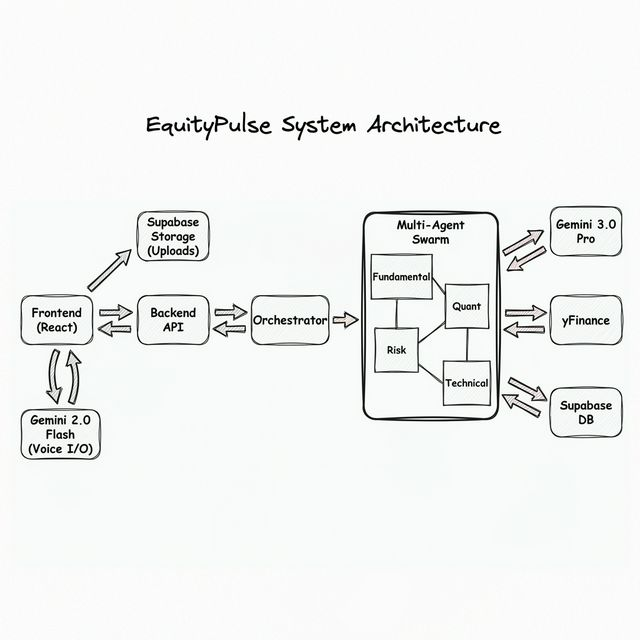
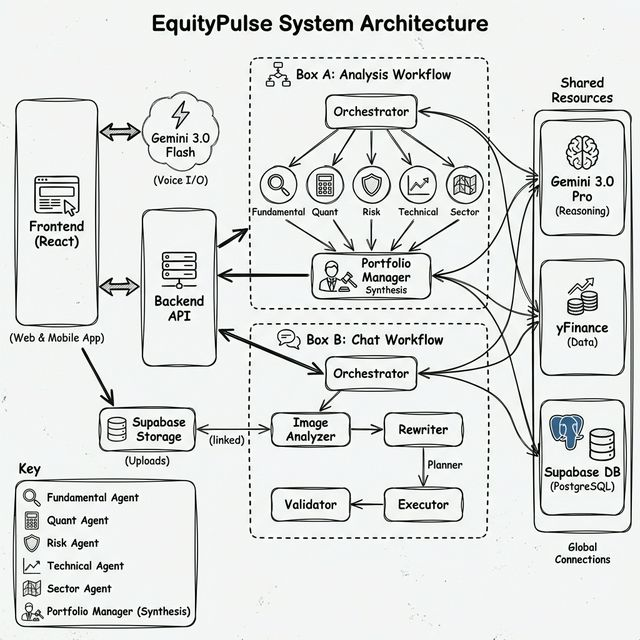
docs: Rename Portfolio Manager to Management Agent, add analysis agent workflow diagram, and update Gemini model to gemini-3-flash in frontend example.

Changed region(s): [[0.0, 0.0938, 1.0, 1.0], [0.2188, 0.0, 0.7812, 0.0625], [0.0625, 0.125, 0.125, 0.1562]]

diff --git a/README.md b/README.md
@@ -51,9 +51,12 @@ EquityPulse is not a chatbot. It is an **Autonomous Investment Committee**. It o
 5.  **Technical Analyst (The "Trader")** 📊
     *   *Focus*: RSI Divergences, Volume Profile, Stage Analysis.
     *   *Goal*: Time the entry.
-6.  **Portfolio Manager (The "CIO")** 🗣
+6.  **Management Agent (The "CIO")** 🗣
     *   *Focus*: Synthesis, Conflict Resolution, Risk-Adjusted Returns.
     *   *Goal*: The final decision maker. It aggregates all agent reports, weighs conflicting evidence, and produces the final investment thesis.
+
+### Analysis Agent Workflow
+![Analysis Agent Workflow](backend/docs/images/analysis_workflow.png)
 
 ## 💬 The "Analyst" Chat Architecture
 Beyond static report generation, EquityPulse features a stateful, multi-agent chat system designed to answer follow-up questions with the depth of a human analyst.
